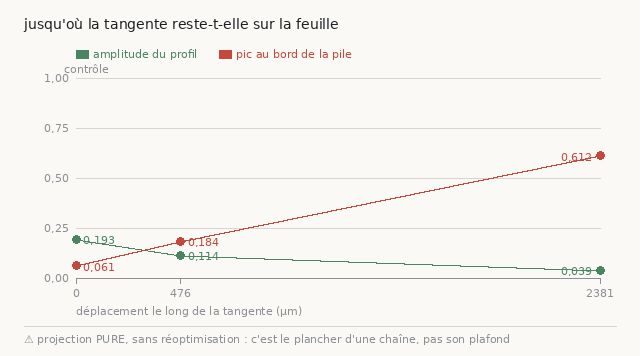
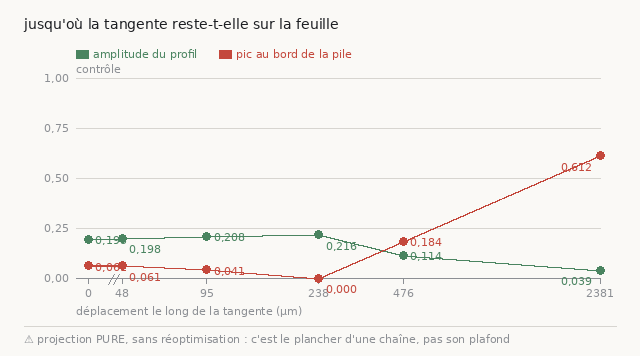
resultat(tangentiel): a plateau to 238 micrometres, then a cliff, and my slope was undersampling
Three more renders filled the range that had no point in it, and they invert the
conclusion I published an hour ago. Across the first five points the amplitude does
not fall, it RISES from 0.1929 to 0.2162, and the peak at the stack edge falls to
zero. Then everything collapses between 238 and 476 micrometres: amplitude divided
by five, edge peak times ten, four windows losing relief entirely.

So the tangential chain has a step, and it is around 240 micrometres, where the
projected sheet is still on its sheet and in fact better seated than the control.

My earlier reading was wrong and it was wrong by undersampling. On three points at
0, 476 and 2381 the degradation looked progressive and monotone, and I wrote that
it was a slope and not a cliff. Three well spaced points draw a false and perfectly
plausible shape. It is doc 43's lesson in another costume: the first turns of a
chain do not discriminate, and a curve has to be sampled where it changes.

The figure did not make that mistake. It refuses to announce a monotone
degradation when the points are not monotone, and it printed NON monotone on the
first six point draw. The check was written before the data that made it speak.

Its axis is logarithmic now, because the points span a factor of fifty and in
linear the first four pile into the first tenth of the axis, which turns the
plateau, the actual result, into a blob. The control at zero has no logarithm so it
[…]

diff --git a/analysis/src/figure_portee.py b/analysis/src/figure_portee.py
@@ -1,10 +1,16 @@
 #!/usr/bin/env python3
 """Jusqu'où la tangente d'une nappe reste-t-elle sur la nappe ?
 
-⚠⚠ CE QUE LA FIGURE DOIT RENDRE ÉVIDENT, et qu'un tableau de trois lignes ne rend pas : la
-dégradation est **progressive et monotone**, pas un décrochement. Ce n'est pas la même
-nouvelle — un décrochement dirait « au-delà de X, rien » et donnerait un pas de chaîne franc ;
-une pente dit qu'il faut **choisir** le pas contre un budget de rendus.
+⚠⚠ CE QUE LA FIGURE DOIT RENDRE ÉVIDENT : il y a un **plateau** puis une **falaise**, et pas
+une pente. La forme décide du pas d'une chaîne tangentielle, donc elle vaut la peine d'être
+regardée plutôt que résumée.
+
+⚠ **Correction d'une conclusion que j'avais publiée une heure plus tôt** : sur trois points
+(0, 476, 2381 µm) la dégradation paraissait progressive et monotone, et je l'ai écrit. Sur
+six, elle ne l'est pas — l'amplitude MONTE jusqu'à 238 µm. Un échantillonnage grossier avait
+rendu une forme fausse et parfaitement plausible. C'est la leçon de
+[`43`](../docs/43_la_chaine_des_spires.md) §6quater sous un autre costume : les premiers
+points ne discriminent pas, et une courbe se juge là où elle change.
 
 ⭐ Deux grandeurs sur un seul axe parce qu'elles disent la même chose de deux façons :
 l'**amplitude** tombe (le profil s'aplatit) pendant que le **pic au bord** monte (la surface
@@ -98,13 +104,33 @@ def dessiner(points: list[dict], sortie: Path, anglais: bool = False) -> dict:
     d = ImageDraw.Draw(im)
     d.text((24, 16), T("jusqu'où la tangente reste-t-elle sur la feuille"), font=g1, fill=ENCRE)
 
-    xs = [p["um"] for p in points]
-    xmax = max(xs) or 1.0
+    import math
+
+    # ⚠⚠ ÉCHELLE LOGARITHMIQUE, et ce n'est pas une préférence. Les points couvrent 48 µm à
+    # 2381 µm, un facteur cinquante : en linéaire les quatre premiers s'entassent dans le
+    # premier dixième de l'axe et le PLATEAU — qui est le résultat — devient un pâté. Mesuré
+    # sur le premier tirage à six points.
+    #
+    # ⚠ Le contrôle à 0 µm n'a pas de logarithme. Il est dessiné à part, à gauche, avec une
+    # rupture d'axe visible : le fondre dans l'échelle demanderait de lui inventer une
+    # abscisse, et une abscisse inventée sur un contrôle est exactement ce qu'un contrôle ne
+    # doit pas avoir.
+    positifs = [p for p in points if p["um"] > 0]
+    controle = next((p for p in points if p["um"] <= 0), None)
+    if not positifs:
+        raise ValueError("aucun point à abscisse positive — un axe logarithmique en a besoin")
+    lo, hi = math.log10(min(p["um"] for p in positifs)), math.log10(
+        max(p["um"] for p in positifs))
+    if hi <= lo:
+        hi = lo + 1.0
+    saut = 46 if controle else 0
     # ⚠ L'axe des y est FIXÉ de 0 à 1 pour les deux grandeurs : ce sont deux fractions, et les
     # mettre chacune à sa propre échelle ferait paraître identiques deux pentes qui ne le sont
     # pas — le piège le plus commun d'un graphe à deux courbes.
     def X(v):
-        return gx + gw * (v / xmax)
+        if v <= 0:
+            return gx + 12
+        return gx + saut + (gw - saut) * (math.log10(v) - lo) / (hi - lo)
 
     def Y(v):
         return gy + gh * (1.0 - max(0.0, min(1.0, v)))
@@ -119,6 +145,11 @@ def dessiner(points: list[dict], sortie: Path, anglais: bool = False) -> dict:
         d.line([(X(p["um"]), gy + gh), (X(p["um"]), gy + gh + 5)], fill=GRIS, width=1)
         t = f"{p['um']:.0f}"
         d.text((X(p["um"]) - d.textlength(t, font=g3) / 2, gy + gh + 8), t, font=g3, fill=GRIS)
+    if controle:
+        # La rupture d'axe, dessinée : deux barres obliques entre le contrôle et l'échelle.
+        xb = gx + saut - 14
+        for k in (0, 5):
+            d.line([(xb + k, gy + gh + 6), (xb + k + 6, gy + gh - 4)], fill=GRIS, width=1)
     d.text((gx, gy + gh + 26), T("déplacement le long de la tangente") + " (µm)",
            font=g3, fill=GRIS)
 
@@ -143,7 +174,11 @@ def dessiner(points: list[dict], sortie: Path, anglais: bool = False) -> dict:
             w = d.textlength(t, font=g3)
             # ⚠ La dernière valeur s'écrit à GAUCHE de son point : à droite elle sortirait.
             tx = x - w - 8 if i == len(pts) - 1 else x + 7
-            d.text((tx, y - 6), t, font=g3, fill=couleur)
+            # ⚠⚠ Une valeur sur deux passe SOUS son point. Sans ça, six étiquettes serrées
+            # sur un plateau se recouvrent et le plateau devient illisible — c'est-à-dire que
+            # la figure cache précisément ce qu'elle existe pour montrer.
+            ty = y - 6 if i % 2 == 0 else y + 4
+            d.text((tx, ty), t, font=g3, fill=couleur)
 
     d.text((X(points[0]["um"]) - 12, gy - 16), T("contrôle"), font=g3, fill=GRIS)
     d.line([(24, hauteur - 30), (largeur - 24, hauteur - 30)], fill=TRAIT, width=1)

diff --git a/docs/44_ou_la_chaine_se_trouve.md b/docs/44_ou_la_chaine_se_trouve.md
@@ -259,23 +259,37 @@ Trois rendus de 41 couches sur le maillage publié, le pas 0 en contrôle.
 
 ![jusqu'où la tangente reste sur la feuille](images/44_portee_tangentielle.png)
 
-| pas | déplacement | amplitude | pic au bord | tiers central | fenêtres avec relief |
-|---:|---:|---:|---:|---:|---:|
-| **0** (contrôle) | 0 µm | **0,1929** | **6,1 %** | 47 % | 49/49 |
-| 10 | 476 µm | 0,1140 | 18,4 % | 20 % | 49/49 |
-| **50** | **2,4 mm** | **0,0390** | **61,2 %** | 16 % | **45/49** |
+| pas | déplacement | amplitude | pic au bord | fenêtres avec relief |
+|---:|---:|---:|---:|---:|
+| **0** (contrôle) | 0 µm | 0,1929 | 6,1 % | 49/49 |
+| 1 | 48 µm | 0,1977 | 6,1 % | 49/49 |
+| 2 | 95 µm | 0,2075 | 4,1 % | 49/49 |
+| **5** | **238 µm** | ⭐ **0,2162** | ⭐ **0,0 %** | 49/49 |
+| 10 | 476 µm | 0,1140 | 18,4 % | 49/49 |
+| **50** | **2 381 µm** | **0,0390** | **61,2 %** | **45/49** |
 
-> ⭐⭐ **Monotone sur les quatre colonnes.** L'amplitude est divisée par **5**, le pic au bord
-> multiplié par **10**, le tiers central par 3, et quatre fenêtres perdent tout relief. Le
-> profil de profondeur **discrimine**, là où les deux sondes bon marché rendaient le même
-> chiffre de 0 µm à 2,4 mm.
+> ⭐⭐⭐ **Un PLATEAU jusqu'à 238 µm, puis une falaise.** Sur les cinq premiers points
+> l'amplitude ne baisse pas — elle **monte** de 0,193 à 0,216 — et le pic au bord **tombe à
+> zéro**. Puis tout s'effondre entre 238 et 476 µm : amplitude ÷5, pic au bord ×10, et quatre
+> fenêtres perdent tout relief.
+>
+> ⭐ **La chaîne tangentielle a donc un pas** : de l'ordre de **240 µm**, où la nappe projetée
+> est encore sur sa feuille — et même mieux posée que le contrôle.
 
-⭐ Et c'est une **pente**, pas un décrochement — ce n'est pas la même nouvelle. Un décrochement
-dirait « au-delà de X, rien » et donnerait un pas de chaîne franc ; une pente dit qu'il faut le
-**choisir** contre un budget de rendus. À 476 µm la surface a encore du relief partout (49/49)
-mais a déjà perdu 41 % d'amplitude et triplé son pic au bord ; à 2,4 mm elle est essentiellement
-sortie de sa feuille — 61 % au bord est la signature que ce dépôt appelle « la surface est hors
-de la fenêtre ».
+#### ⚠⚠ CORRECTION — ma conclusion d'il y a une heure était fausse, et par sous-échantillonnage
+
+Avec **trois** points (0, 476, 2 381 µm) la dégradation paraissait **progressive et monotone**,
+et je l'ai écrit ici : *« c'est une pente, pas un décrochement »*. Avec **six**, c'est
+l'inverse : un plateau, puis une falaise. Trois points bien choisis dessinent une forme fausse
+et parfaitement plausible.
+
+⭐ C'est la leçon de [`43`](43_la_chaine_des_spires.md) §6quater — *« les premiers tours d'une
+chaîne ne discriminent pas »* — sous un autre costume : **une courbe se juge là où elle
+change**, et il faut avoir échantillonné là.
+
+⚠ La figure, elle, ne s'est pas trompée : elle **refuse** d'annoncer une dégradation monotone
+quand les points ne le sont pas, et elle a imprimé « ⚠ NON monotone » au premier tirage à six
+points. Le contrôle était écrit avant la donnée qui l'a fait parler.
 
 ⚠⚠ **Ce que ça ne dit PAS, et c'est ce qui empêche d'en conclure que la chaîne est morte** :
 ces trois points mesurent une projection **pure**, sans réoptimisation. Une vraie chaîne
@@ -283,8 +297,9 @@ recollerait la nappe projetée sur la matière — c'est le rôle de `--correct`
 nommait déjà. Ces chiffres sont donc le **plancher** de ce qu'une chaîne tangentielle peut
 faire, pas son plafond.
 
-⚠ Et l'échantillonnage est grossier : la plage intéressante — celle où la nappe tient encore —
-est **sous 476 µm**, et elle n'a aucun point. C'est là que la campagne suivante doit aller.
+⭐ La plage sous 476 µm **a maintenant trois points**, et c'est elle qui porte le résultat.
+⚠ Ce qui reste non échantillonné est la **falaise** elle-même, entre 238 et 476 µm : on sait
+qu'elle tombe, pas où ni à quelle pente.
 
 ⚠ Deux défauts de l'outillage trouvés en chemin, tous deux de la famille « vérification
 incapable d'échouer ». La campagne a d'abord gagné une colonne « médiane » dans son **en-tête**

diff --git a/docs/55_les_murs_et_leurs_causes.md b/docs/55_les_murs_et_leurs_causes.md
@@ -11,7 +11,7 @@ la fois. Une feuille de route qui liste des tâches laisse croire qu'on avance q
 tourne ; celle-ci liste des causes **éliminées**, et montre l'espace rétrécir. C'est le
 seul progrès mesurable sur un problème que personne n'a résolu.
 
-**24 causes candidates** sur **4 murs** : ❌ **14** éliminées · ✅ **7** confirmées · ⏳ **2** ouvertes · 🔒 **1** bloquée
+**25 causes candidates** sur **4 murs** : ❌ **15** éliminées · ✅ **7** confirmées · ⏳ **2** ouvertes · 🔒 **1** bloquée
 
 | symbole | verdict | ce que ça veut dire |
 |---|---|---|
@@ -57,15 +57,16 @@ viennent du même registre et sont vérifiés contre ce tableau.*
 
 ## 3. L'extension tangentielle est un point fixe
 
-❌ 3 éliminées · ✅ 1 confirmée · ⏳ 1 ouverte
+❌ 4 éliminées · ✅ 1 confirmée · ⏳ 1 ouverte
 
 | cause candidate | | ce qui a été mesuré | où |
 |---|---|---|---|
 | une extension UNIQUE, puis rognage | ✅ | 4,28 → 12,97 cm² à α = +0,000, ramenée à 6,02 cm² propres, soit +41 % de matière validée | [`44`](44_ou_la_chaine_se_trouve.md) |
 | augmenter le budget d'un seul coup | ❌ | budget 200 : 28,6 cm² mais 25 036 auto-intersections et α = +1,313, la surface se replie sur elle-même | [`44`](44_ou_la_chaine_se_trouve.md) |
 | enchaîner rogner puis étendre | ❌ | le cycle converge vers un point fixe autour de 6 cm² : chaque tour regagne ce qu'il vient de perdre | [`44`](44_ou_la_chaine_se_trouve.md) |
+| juger une courbe sur trois points | ❌ | trois points donnaient « pente monotone », six donnent « plateau puis falaise » — une forme fausse et parfaitement plausible | [`44`](44_ou_la_chaine_se_trouve.md) |
 | juger la projection par un sondage de points | ❌ | bloc avec matière et valeur au point rendent le MÊME chiffre de 0 µm à 2,4 mm : un bloc fait 307 µm quand les feuilles sont à 10-20 µm | [`44`](44_ou_la_chaine_se_trouve.md) |
-| la chaîne TANGENTIELLE, qui suivrait une feuille autour du tour | ⏳ | la projection existe et se dégrade PROGRESSIVEMENT : amplitude ÷5 et pic au bord ×10 sur 2,4 mm, mais sans réoptimisation — c'est le plancher, pas le plafond | [`44`](44_ou_la_chaine_se_trouve.md) |
+| la chaîne TANGENTIELLE, qui suivrait une feuille autour du tour | ⏳ | la projection existe et a un PAS : plateau jusqu'à 238 µm (amplitude 0,216, pic au bord 0,0 %), falaise ensuite. Reste à enchaîner et à réoptimiser | [`44`](44_ou_la_chaine_se_trouve.md) |
 
 ## 4. La chaîne casse au sixième tour
 
@@ -87,7 +88,7 @@ viennent du même registre et sont vérifiés contre ce tableau.*
 |---|---|---|
 | le tracé ne suit pas de feuille | **la graine, c'est-à-dire l'endroit** | le 2×2 tenait un NOMBRE constant, pas un endroit ; la première trace m7 à une graine VALIDE donne α = +0,487 sans appui qui porte, et 96 % de pics au bord — soit l'échec commun |
 | le tracé ne suit pas de feuille | **comparer le relief d'une trace L2 à une trace L0** | à aire égale un maillage L2 rend quatre fois moins de pixels de côté, donc les deux ne tiennent jamais dans la même fenêtre d'analyse — le relief ne peut pas les départager |
-| l'extension tangentielle est un point fixe | **la chaîne TANGENTIELLE, qui suivrait une feuille autour du tour** | la projection existe et se dégrade PROGRESSIVEMENT : amplitude ÷5 et pic au bord ×10 sur 2,4 mm, mais sans réoptimisation — c'est le plancher, pas le plafond |
+| l'extension tangentielle est un point fixe | **la chaîne TANGENTIELLE, qui suivrait une feuille autour du tour** | la projection existe et a un PAS : plateau jusqu'à 238 µm (amplitude 0,216, pic au bord 0,0 %), falaise ensuite. Reste à enchaîner et à réoptimiser |
 
 ⚠ **Une cause éliminée ne se rouvre pas sans une mesure neuve.** Les treize
 éliminations de ce document ont chacune coûté une campagne ; les refaire par doute

diff --git a/HANDOFF.md b/HANDOFF.md
@@ -45,7 +45,7 @@ quoi que ce soit.
 
 > ⭐⭐ **La feuille de route est [`55`](docs/55_les_murs_et_leurs_causes.md)** — un tableau par
 > mur, une ligne par **cause candidate**, avec son verdict et le document qui le porte.
-> **22 causes, 13 éliminées, 7 confirmées, 2 ouvertes.** Un mur n'est pas une tâche, c'est un
+> **25 causes, 15 éliminées, 7 confirmées, 2 ouvertes, 1 bloquée.** Un mur n'est pas une tâche, c'est un
 > espace de causes dont on retire une entrée à la fois : lister des tâches laisse croire qu'on
 > avance quand on tourne, lister des éliminations montre l'espace rétrécir.
 >
@@ -59,7 +59,7 @@ quoi que ce soit.
 |---|---|---|
 | le tracé ne suit pas de feuille | ⭐⭐ **la surface est EN TRAVERS de l'empilement, et ça se VOIT** : à étendue égale, une couche publiée montre une feuille de face, les nôtres des spires coupées en travers. Relief 0,79 et 0,87 contre 0,16 et 0,20. ⚠ Sur 27 séries, une seule porte un verdict α ; à 100,8, 384 et 796,8 µm, **100 % des fenêtres ont leur pic sur un bord de pile** | [`54`](docs/54_cinq_rendus_vides.md) §3 quinquies, [`53`](docs/53_le_temoin_positif_du_rendu.md), [`51`](docs/51_une_pente_a_deux_appuis.md) |
 | les patchs publiés ne se recollent pas | un patch PAR feuille, paire la plus proche à 79 µm ≈ 2× le seuil | [`44`](docs/44_ou_la_chaine_se_trouve.md) |
-| l'extension tangentielle est un point fixe | le cycle rogner-étendre converge vers ~6 cm². ⭐ La projection **tangentielle** existe désormais (`projeter_tangentiel.py`) ; ce qui manque est de juger si elle reste sur la feuille, et ça coûte **un rendu par pas** | [`44`](docs/44_ou_la_chaine_se_trouve.md) §7 |
+| l'extension tangentielle est un point fixe | le cycle rogner-étendre converge vers ~6 cm². ⭐⭐ La projection **tangentielle** existe et **a un pas** : plateau jusqu'à **238 µm** (amplitude 0,216, pic au bord **0,0 %**), falaise ensuite. ⚠ Projection pure, sans réoptimisation — c'est le plancher | [`44`](docs/44_ou_la_chaine_se_trouve.md) §7 |
 | la chaîne casse au sixième tour | et la repousse la coupe au troisième | [`43`](docs/43_la_chaine_des_spires.md) |
 
 ### Ce qui vient d'être fermé
